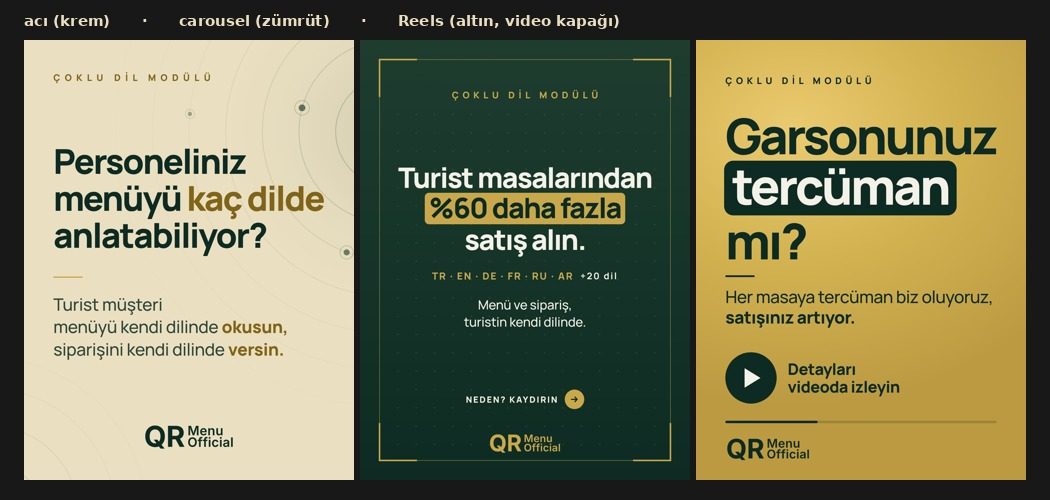
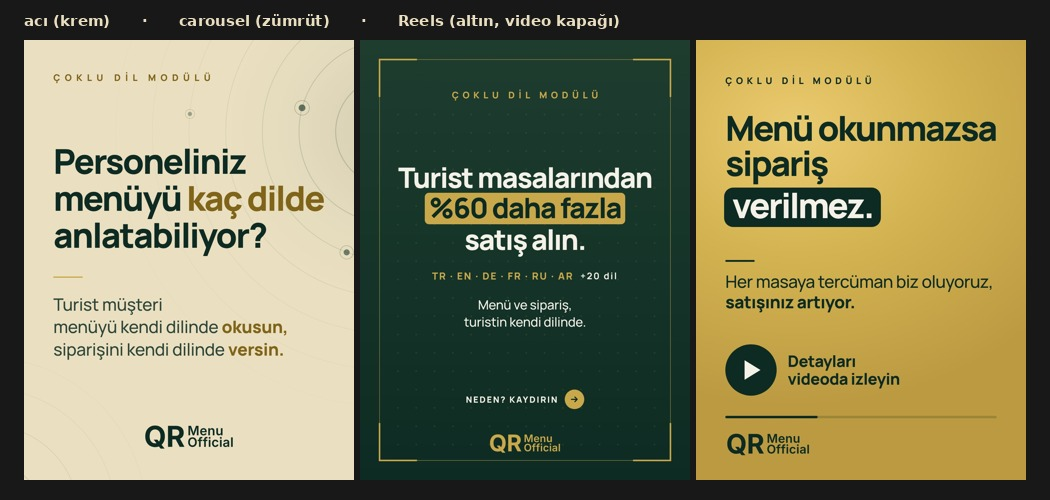
Reels kapağı: yeni kanca 'Menü okunmazsa sipariş verilmez.'
Claude-Session: https://claude.ai/code/session_01FBw9rVwrniVjyFvtgVdFXq

Changed region(s): [[0.6705, 0.21, 0.9448, 0.66], [0.6705, 0.69, 0.9448, 0.93]]

diff --git a/analiz/video/kapak/kapak-video.html b/analiz/video/kapak/kapak-video.html
@@ -9,19 +9,19 @@ html,body{width:1080px;height:1920px;overflow:hidden;font-family:Manrope,sans-se
 .h{position:absolute;left:96px;top:470px;font-weight:800;letter-spacing:-.05em;line-height:1.02}
 .h span{display:block;white-space:nowrap}
 .pill{display:inline-block;background:var(--y);color:var(--off);padding:0 26px 14px;border-radius:30px;line-height:1.02;margin-left:-4px}
-.play{position:absolute;left:96px;top:1262px;display:flex;align-items:center;gap:36px}
+.play{position:absolute;left:96px;top:1236px;display:flex;align-items:center;gap:36px}
 .play .c{width:168px;height:168px;border-radius:50%;background:var(--y);display:grid;place-items:center}
 .play .c svg{margin-left:10px}
 .play .t{font-weight:800;font-size:52px;line-height:1.12;letter-spacing:-.02em}
-.bar{position:absolute;left:96px;width:888px;top:1486px;height:8px;border-radius:4px;background:#0D2B2230}
+.bar{position:absolute;left:96px;width:888px;top:1470px;height:8px;border-radius:4px;background:#0D2B2230}
 .bar i{display:block;height:100%;width:34%;border-radius:4px;background:var(--y)}
-.logo{position:absolute;left:96px;top:1538px}.logo svg{width:280px;display:block}
-.rule{position:absolute;left:96px;top:1010px;width:96px;height:6px;border-radius:3px;background:var(--y)}
-.s{position:absolute;left:96px;top:1046px;font-size:56px;line-height:1.2;letter-spacing:-.02em;font-weight:500}
+.logo{position:absolute;left:96px;top:1522px}.logo svg{width:280px;display:block}
+.rule{position:absolute;left:96px;top:960px;width:96px;height:6px;border-radius:3px;background:var(--y)}
+.s{position:absolute;left:96px;top:996px;font-size:56px;line-height:1.2;letter-spacing:-.02em;font-weight:500}
 .s b{font-weight:800}
 </style></head><body>
 <div class="lab">ÇOKLU DİL MODÜLÜ</div>
-<div class="h" id="H"><span>Garsonunuz</span><span><b class="pill">tercüman</b></span><span>mı?</span></div>
+<div class="h" id="H"><span>Menü okunmazsa</span><span>sipariş</span><span style="margin-top:22px"><b class="pill">verilmez.</b></span></div>
 <div class="rule"></div><div class="s">Her masaya tercüman biz oluyoruz,<br><b>satışınız artıyor.</b></div>
 <div class="play"><div class="c"><svg width="64" height="72" viewBox="0 0 64 72"><path d="M6 4 L58 36 L6 68 Z" fill="#F4F1E8"/></svg></div><div class="t">Detayları<br>videoda izleyin</div></div>
 <div class="bar"><i></i></div>
